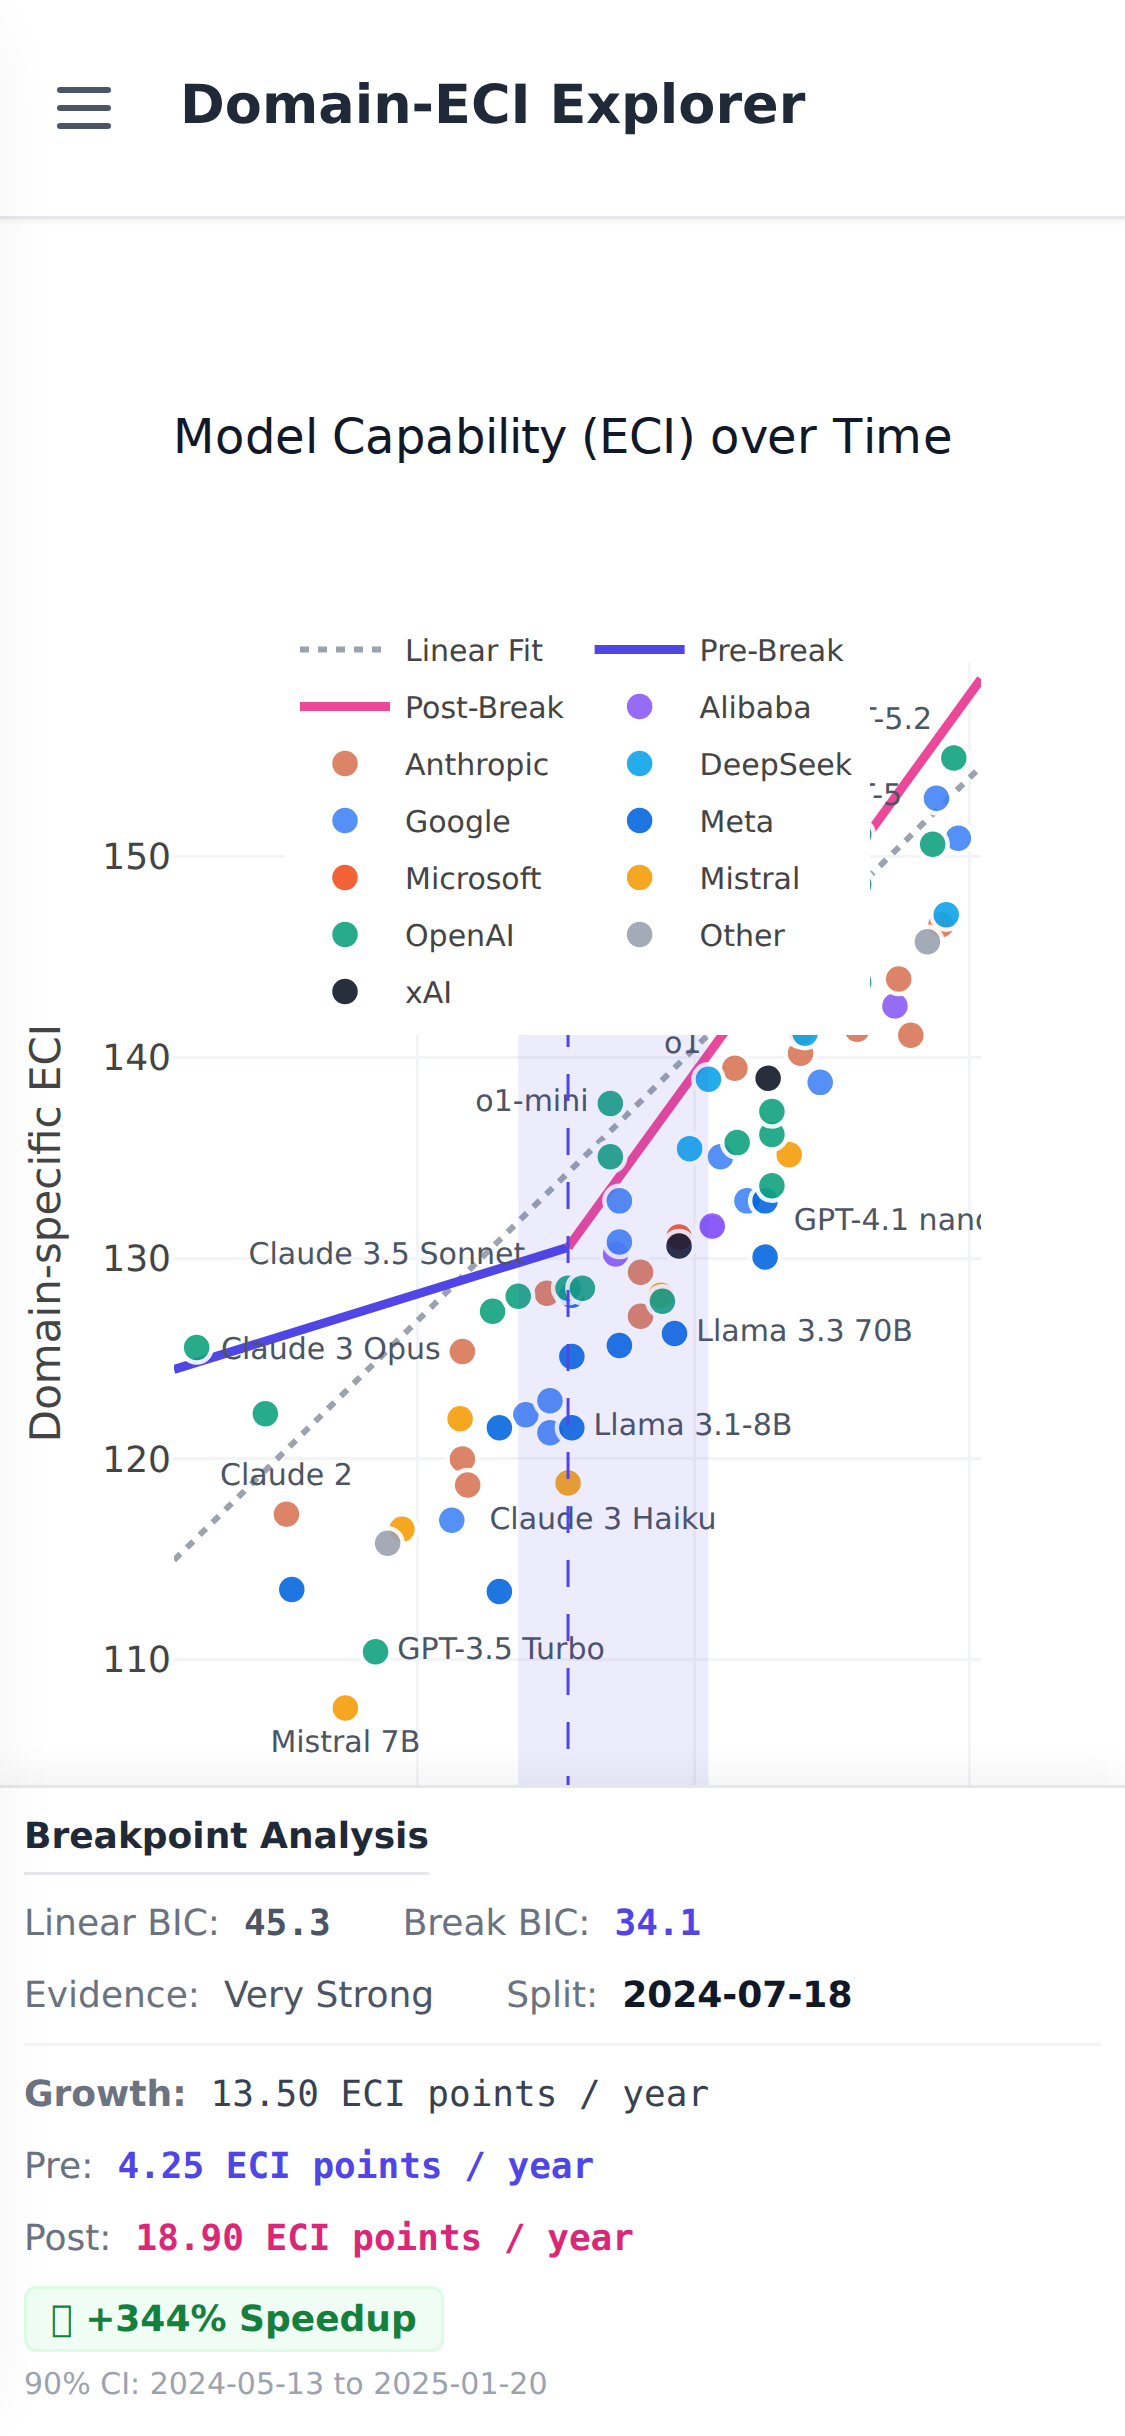
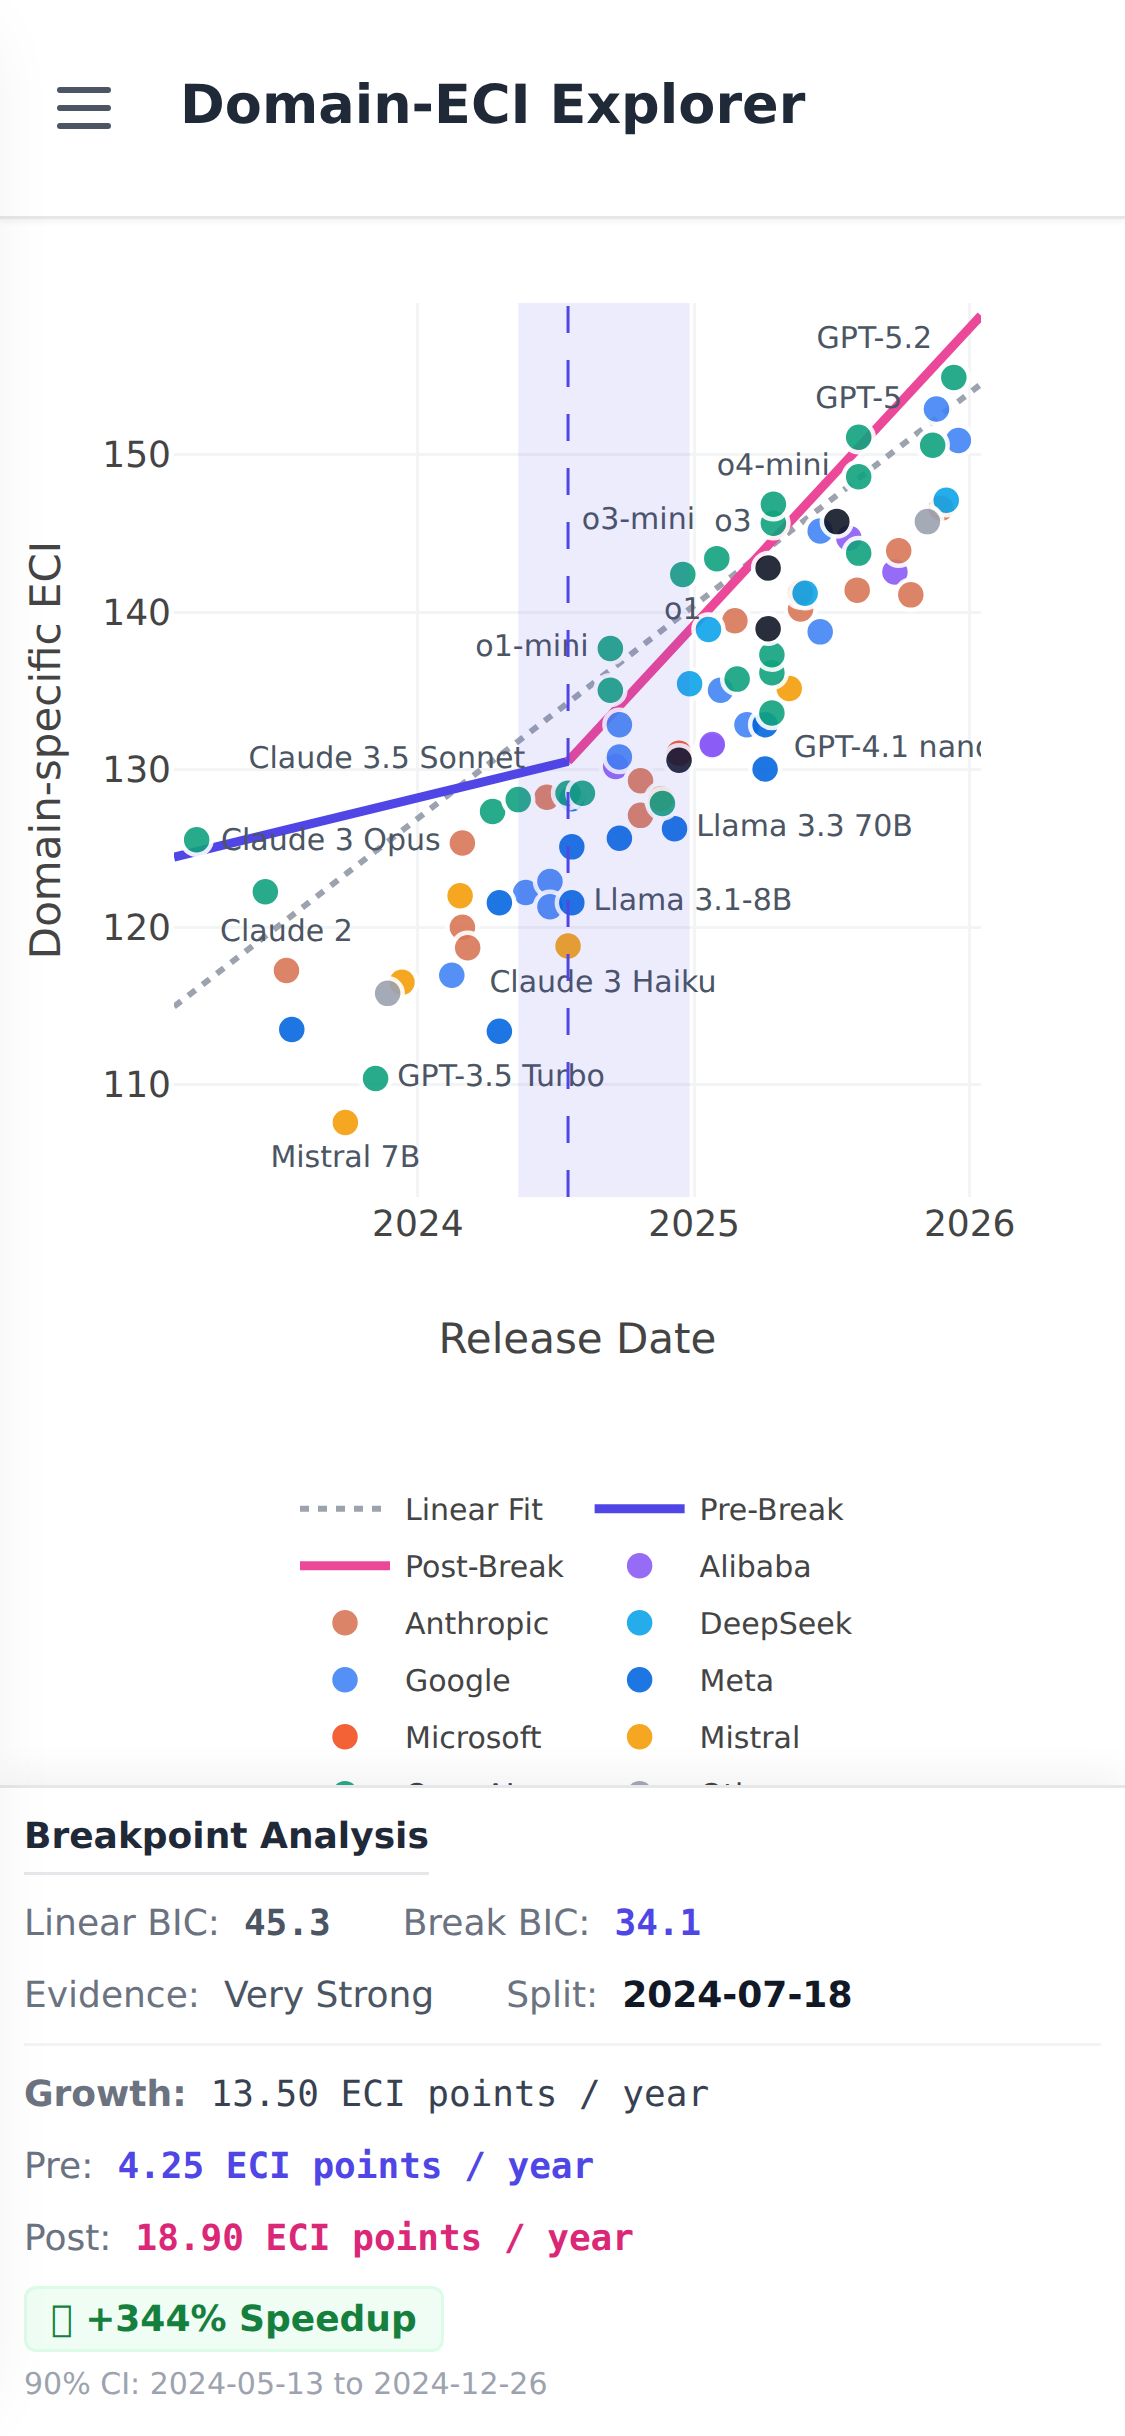
Deploy preview for PR 22 🛫

diff --git a/pr-preview/pr-22/domain_eci.html b/pr-preview/pr-22/domain_eci.html
@@ -1244,17 +1244,17 @@
                 const isMobile = window.innerWidth < 1024;
                 let layout = {
                     title: {
-                        text: 'Model Capability (ECI) over Time',
-                        font: { family: 'Inter', size: isMobile ? 16 : 22, weight: 900, color: '#111827' }
+                        text: isMobile ? undefined : 'Model Capability (ECI) over Time',
+                        font: { family: 'Inter', size: 22, weight: 900, color: '#111827' }
                     },
                     xaxis: { title: { text: 'Release Date', font: { weight: 600 } }, gridcolor: '#f3f4f6', zeroline: false, automargin: true },
                     yaxis: { title: { text: 'Domain-specific ECI', font: { weight: 600 } }, gridcolor: '#f3f4f6', zeroline: false, automargin: true },
                     hovermode: 'closest',
                     template: 'plotly_white',
-                    margin: isMobile ? { t: 140, r: 40, l: 40, b: 40 } : { t: 90, r: 50, l: 80, b: 100 },
+                    margin: isMobile ? { t: 20, r: 40, l: 40, b: 120 } : { t: 90, r: 50, l: 80, b: 100 },
                     legend: {
                         orientation: 'h',
-                        y: isMobile ? 1.05 : -0.15,
+                        y: isMobile ? -0.3 : -0.15,
                         x: 0.5,
                         xanchor: 'center',
                         font: { size: isMobile ? 10 : 13, weight: 500 }
@@ -1565,11 +1565,11 @@
                     });
 
                     if (state.mode === 'rank-compare') {
-                        layout.title.text = 'Comparison: Fixed vs. Refit Ranks';
+                        if (!isMobile) layout.title.text = 'Comparison: Fixed vs. Refit Ranks';
                         layout.xaxis.title.text = 'Fixed Parameters Rank (1=Best)';
                         layout.yaxis.title.text = 'Refit (JMLE) Rank (1=Best)';
                     } else {
-                        layout.title.text = 'Comparison: Fixed vs. Refit ECI';
+                        if (!isMobile) layout.title.text = 'Comparison: Fixed vs. Refit ECI';
                         layout.xaxis.title.text = 'Fixed Parameters ECI';
                         layout.yaxis.title.text = 'Refit (JMLE) ECI';
                         status.innerText = `Comparing ${rawPoints.length} models.`;
